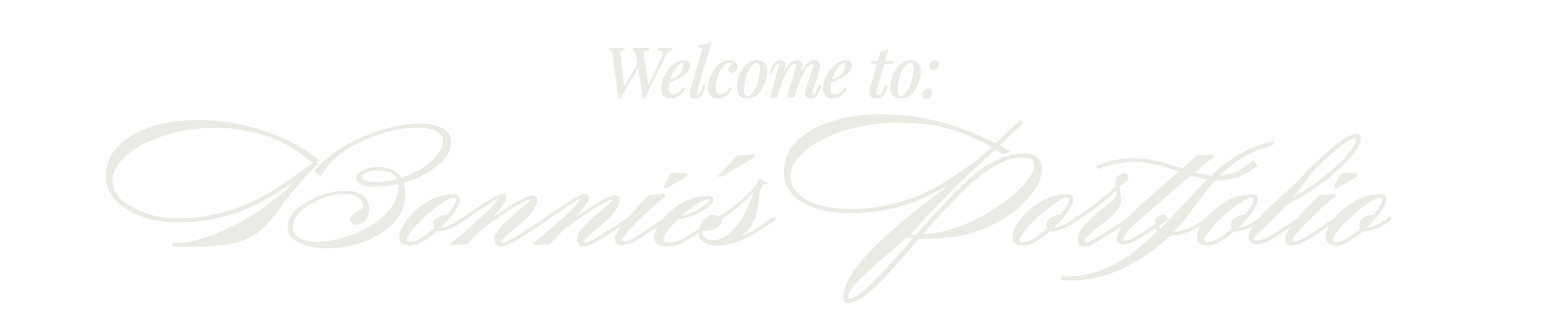
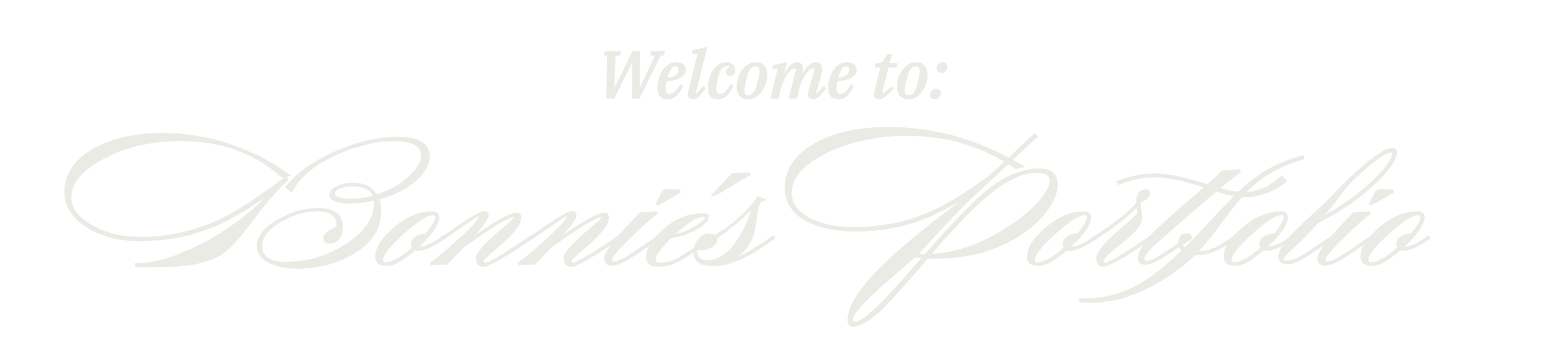
new font

diff --git a/mywork.html b/mywork.html
@@ -18,15 +18,16 @@ body {
     <link rel="preconnect" href="https://fonts.googleapis.com">
     <link rel="preconnect" href="https://fonts.gstatic.com" crossorigin>
     <link href="https://fonts.googleapis.com/css2?family=Mea+Culpa&family=Playfair+Display:ital,wght@0,400..900;1,400..900&display=swap" rel="stylesheet">
+    <link href="https://fonts.googleapis.com/css2?family=IBM+Plex+Serif:ital,wght@0,400;0,500;0,600;1,400;1,500;1,600&display=swap" rel="stylesheet">
     <link rel="stylesheet" href="style.css">
 </head>
 
 <article>
     <header>
-            <a class="playfair-italic small-text button" href="index.html">Home</a>
-            <a class="playfair-italic small-text button" href="mywork.html">My Work</a>
-            <a class="playfair-italic small-text button" href="contact.html">Contact</a>
-            <a class="playfair-italic small-text button" href="https://github.com/bonnie-cao" 
+            <a class="ibm-plex-serif-medium-italic small-text button" href="index.html">Home</a>
+            <a class="ibm-plex-serif-medium-italic small-text button" href="mywork.html">My Work</a>
+            <a class="ibm-plex-serif-medium-italic small-text button" href="contact.html">Contact</a>
+            <a class="ibm-plex-serif-medium-italic small-text button" href="https://github.com/bonnie-cao" 
             target="_blank" rel="noopener noreferrer">Github</a><br>
     </header>
 </article>
@@ -42,14 +43,14 @@ body {
             <img class="project-image" src="./images/pokeanki.gif"
             alt="Pokemon Anki Add-on">
             <div class="project-info">
-                <h2 class="playfair-italic-bold large-text">Pokemon Anki Add-on</h2>
-                <p class="playfair small-text tight-text">An add-on for the popular flashcard studying app, Anki. 
+                <h2 class="ibm-plex-serif-semibold-italic">Pokemon Anki Add-on</h2>
+                <p class="ibm-plex-serif-medium small-text tight-text">An add-on for the popular flashcard studying app, Anki. 
                     Inspired by my Health Sciences background, combining the Pokemon game with flashcard 
                     memorization to make studying a little less boring.</p>
                     <br>
-                <a class="playfair-italic small-text button" href="https://github.com/bonnie-cao/pokeanki"
+                <a class="ibm-plex-serif-medium-italic small-text button" href="https://github.com/bonnie-cao/pokeanki"
                 target="_blank" rel="noopener noreferrer">Github</a>
-                <a class="playfair-italic small-text button" href="https://ankiweb.net/shared/info/1977818525"
+                <a class="ibm-plex-serif-medium-italic small-text button" href="https://ankiweb.net/shared/info/1977818525"
                 target="_blank" rel="noopener noreferrer">AnkiWeb</a>
             </div>
         </div>
@@ -58,12 +59,12 @@ body {
             <img class="project-image" src="./images/sean1.png"
             alt="Simulating Black Hole Emissions">
             <div class="project-info">
-                <h2 class="playfair-italic-bold large-text">Simulating Black Hole Emissions</h2>
-                <p class="playfair small-text tight-text">Characterizing near-infrared thermal emissions from
-                    Sagittarius A*. Visualizing magnetohydrodynamic simulations and time series data with 
-                    photon trajectories near black holes. Supervised by Dr. Sean Ressler.</p>
+                <h2 class="ibm-plex-serif-semibold-italic">Simulating Black Hole Emissions</h2>
+                <p class="ibm-plex-serif-medium small-text tight-text">Characterizing near-infrared thermal emissions from
+                    Sagittarius A*. Visualizing magnetohydrodynamic simulations and time series black hole data with 
+                    photon trajectories. Supervised by Dr. Sean Ressler.</p>
                     <br>
-                <a class="playfair-italic small-text button" href="https://github.com/bonnie-cao/blacklight-simulations" 
+                <a class="ibm-plex-serif-medium-italic small-text button" href="https://github.com/bonnie-cao/blacklight-simulations" 
                 target="_blank" rel="noopener noreferrer">Github</a>
             </div>
         </div>
@@ -72,11 +73,11 @@ body {
             <img class="project-image" src="./images/yanlong.png"
             alt="Simulating Quasi-Star Evolutions">
             <div class="project-info">
-                <h2 class="playfair-italic-bold large-text">Simulating Quasi-Star Evolutions</h2>
-                <p class="playfair small-text tight-text">Analysing the spin evolution of black holes within the convective 
+                <h2 class="ibm-plex-serif-semibold-italic large-text">Simulating Quasi-Star Evolutions</h2>
+                <p class="ibm-plex-serif-medium small-text tight-text">Analysing the spin evolution of black holes within the convective 
                     core of a star. Designing simulations to represent quasi-star evolution. Supervised by Dr. Yanlong Shi.</p>
                     <br>
-                <a class="playfair-italic small-text button" href="https://github.com/bonnie-cao/mesa-simulations" 
+                <a class="ibm-plex-serif-medium-italic small-text button" href="https://github.com/bonnie-cao/mesa-simulations" 
                 target="_blank" rel="noopener noreferrer">Github</a>
             </div>
         </div>
@@ -85,12 +86,12 @@ body {
             <img class="project-image" src="./images/exoplanets.png"
             alt="Detecting Exoplanets">
             <div class="project-info">
-                <h2 class="playfair-italic-bold large-text">Detecting Exoplanets</h2>
-                <p class="playfair small-text tight-text">Python-based workflow with Lightkurve to extract and analyse data from NASA’s 
+                <h2 class="ibm-plex-serif-semibold-italic large-text">Detecting Exoplanets</h2>
+                <p class="ibm-plex-serif-medium small-text tight-text">Python-based workflow with Lightkurve to extract and analyse data from NASA’s 
                     space telescopes, TESS and Kepler.
                     Identified exoplanets by applying transit light curve methods.</p>
                     <br>
-                <a class="playfair-italic small-text button" href="https://github.com/bonnie-cao/kepler-light-curve" 
+                <a class="ibm-plex-serif-medium-italic small-text button" href="https://github.com/bonnie-cao/kepler-light-curve" 
                 target="_blank" rel="noopener noreferrer">Sample</a>
             </div>
         </div>
@@ -99,12 +100,11 @@ body {
             <img class="project-image" src="./images/rube.png"
             alt="Rube Goldberg Machine">
             <div class="project-info">
-                <h2 class="playfair-italic-bold large-text">Whipped Cream Dispenser Rube Goldberg Machine</h2>
-                <p class="playfair small-text tight-text">Rube Goldberg inspired machine consisting of 7 
-                    mechanical mechanisms to dispense whipped cream. Paired with a report quantifying the physics and recorded measurements of the machine. 
-                    Over 50% success rate.</p>
+                <h2 class="ibm-plex-serif-semibold-italic large-text">Whipped Cream Dispenser Rube Goldberg Machine</h2>
+                <p class="ibm-plex-serif-medium small-text tight-text">Rube Goldberg inspired machine consisting of 7 
+                    mechanical mechanisms to dispense whipped cream. Paired with a report quantifying the physics and measurements of the machine.</p>
                     <br>
-                <a class="playfair-italic small-text button" href="https://www.youtube.com/shorts/iUsKStygse4" 
+                <a class="ibm-plex-serif-medium-italic small-text button" href="https://www.youtube.com/shorts/iUsKStygse4" 
                 target="_blank" rel="noopener noreferrer">Video</a>
             </div>
         </div>

diff --git a/index.html b/index.html
@@ -20,6 +20,7 @@ body {
     <link rel="preconnect" href="https://fonts.googleapis.com">
     <link rel="preconnect" href="https://fonts.gstatic.com" crossorigin>
     <link href="https://fonts.googleapis.com/css2?family=Mea+Culpa&family=Playfair+Display:ital,wght@0,400..900;1,400..900&display=swap" rel="stylesheet">
+    <link href="https://fonts.googleapis.com/css2?family=IBM+Plex+Serif:ital,wght@0,400;0,500;0,600;1,400;1,500;1,600&display=swap" rel="stylesheet">
     <link rel="stylesheet" href="style.css">
 
 </head>
@@ -52,20 +53,20 @@ body {
         <img src="./images/letter.png" class="letter-background" alt="Portfolio background">
 
         <div class="letter-text">
-            <h3 class="playfair-italic large-text">Hi, I'm Bonnie!</h3>
-            <p class="playfair small-text tight-text">
-                I love learning and experimenting with <span class="playfair-italic-bold small-text tight-text">software and mechanics.</span> 
+            <h3 class="ibm-plex-serif-medium-italic large-text">Hi, I'm Bonnie!</h3>
+            <p class="ibm-plex-serif-medium small-text tight-text">
+                I love learning and experimenting with <span class="ibm-plex-serif-semibold-italic">software and mechanics.</span> 
                 When I'm not absorbed in a project, you can probably find me spending too much time on Geoguessr or watching astrophysics documentaries... <br>
                 <br>
                 I'm currently studying 
-                <span class="playfair-italic-bold small-text tight-text">Mechatronics Engineering at the University of Waterloo</span> 
+                <span class="ibm-plex-serif-semibold-italic small-text tight-text">Mechatronics Engineering at the University of Waterloo</span> 
                 and seeking 
-                <span class="playfair-italic-bold small-text tight-text">Winter 2027 internships!</span><br>
+                <span class="ibm-plex-serif-semibold-italic small-text tight-text">Winter 2027 internships!</span><br>
                 <br>
             </p>
-            <a class="playfair-italic small-text button" href="mywork.html">My Work</a>
-            <a class="playfair-italic small-text button" href="contact.html">Contact</a>
-            <a class="playfair-italic small-text button" href="https://github.com/bonnie-cao"
+            <a class="ibm-plex-serif-medium-italic small-text button" href="mywork.html">My Work</a>
+            <a class="ibm-plex-serif-medium-italic small-text button" href="contact.html">Contact</a>
+            <a class="ibm-plex-serif-medium-italic small-text button" href="https://github.com/bonnie-cao"
             target="_blank" rel="noopener noreferrer">Github</a><br>
             </div>
         </div>

diff --git a/contact.html b/contact.html
@@ -18,15 +18,16 @@ body {
     <link rel="preconnect" href="https://fonts.googleapis.com">
     <link rel="preconnect" href="https://fonts.gstatic.com" crossorigin>
     <link href="https://fonts.googleapis.com/css2?family=Mea+Culpa&family=Playfair+Display:ital,wght@0,400..900;1,400..900&display=swap" rel="stylesheet">
+    <link href="https://fonts.googleapis.com/css2?family=IBM+Plex+Serif:ital,wght@0,400;0,500;0,600;1,400;1,500;1,600&display=swap" rel="stylesheet">
     <link rel="stylesheet" href="style.css">
 </head>
 
 <article>
     <header>
-            <a class="playfair-italic small-text button" href="index.html">Home</a>
-            <a class="playfair-italic small-text button" href="mywork.html">My Work</a>
-            <a class="playfair-italic small-text button" href="contact.html">Contact</a>
-            <a class="playfair-italic small-text button" href="https://github.com/bonnie-cao"
+            <a class="ibm-plex-serif-medium-italic small-text button" href="index.html">Home</a>
+            <a class="ibm-plex-serif-medium-italic small-text button" href="mywork.html">My Work</a>
+            <a class="ibm-plex-serif-medium-italic small-text button" href="contact.html">Contact</a>
+            <a class="ibm-plex-serif-medium-italic small-text button" href="https://github.com/bonnie-cao"
             target="_blank" rel="noopener noreferrer">Github</a><br>
     </header>
 </article>
@@ -41,16 +42,16 @@ body {
         <img src="./images/letter.png" class="letter-background" alt="Portfolio background">
 
         <div class="letter-text">
-            <p class="playfair-italic large-text tight-text">
+            <p class="ibm-plex-serif-medium-italic large-text tight-text">
                 Got an idea or opportunity?<br>Let's get in touch!
                 <br>
                 <div class="contact-buttons">
-                    <a class="playfair small-text icon-button" href="https://www.linkedin.com/in/bonniecaoo/"
+                    <a class="ibm-plex-serif-medium small-text icon-button" href="https://www.linkedin.com/in/bonniecaoo/"
                     target="_blank" rel="noopener noreferrer">
                         <img src="./images/linkedin.png" alt="LinkedIn">
                         <span>LinkedIn</span>
                     </a>
-                    <a class="playfair small-text icon-button" href="mailto:bonnie.cao@uwaterloo.ca">
+                    <a class="ibm-plex-serif-medium small-text icon-button" href="mailto:bonnie.cao@uwaterloo.ca">
                         <img src="./images/waterloo.png" alt="Email">
                         <span>bonnie.cao@uwaterloo.ca</span>
                     </a>

diff --git a/style.css b/style.css
@@ -146,6 +146,42 @@ body{
   font-style: normal;
 }
 
+.ibm-plex-serif-regular {
+  font-family: "IBM Plex Serif", serif;
+  font-weight: 400;
+  font-style: normal;
+}
+
+.ibm-plex-serif-medium {
+  font-family: "IBM Plex Serif", serif;
+  font-weight: 500;
+  font-style: normal;
+}
+
+.ibm-plex-serif-semibold {
+  font-family: "IBM Plex Serif", serif;
+  font-weight: 600;
+  font-style: normal;
+}
+
+.ibm-plex-serif-regular-italic {
+  font-family: "IBM Plex Serif", serif;
+  font-weight: 400;
+  font-style: italic;
+}
+
+.ibm-plex-serif-medium-italic {
+  font-family: "IBM Plex Serif", serif;
+  font-weight: 500;
+  font-style: italic;
+}
+
+.ibm-plex-serif-semibold-italic {
+  font-family: "IBM Plex Serif", serif;
+  font-weight: 600;
+  font-style: italic;
+}
+
 .large-text {
   font-size: 48px;
 }
@@ -707,6 +743,16 @@ h3 {
   .letter-text .small-text {
     font-size: 16px;
     line-height: 1.3;
+  }
+
+  .letter .letter-text h3 {
+    margin-top: 0;
+    margin-bottom: 5px;
+  }
+
+    .letter .letter-text p {
+    margin-top: 0;
+    margin-bottom: 2px;
   }
 
   .letter-text .button {
